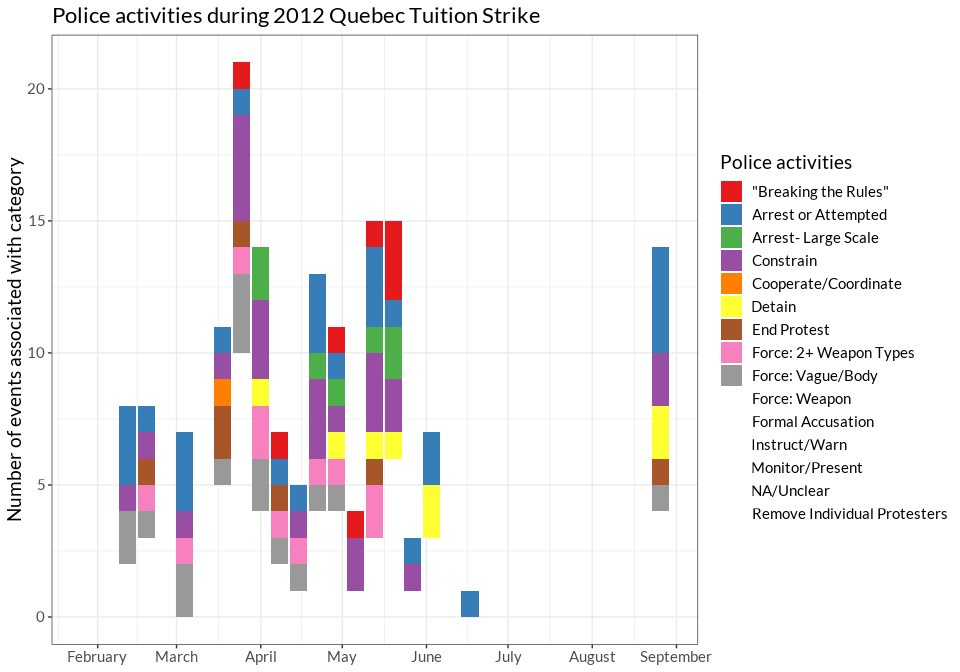
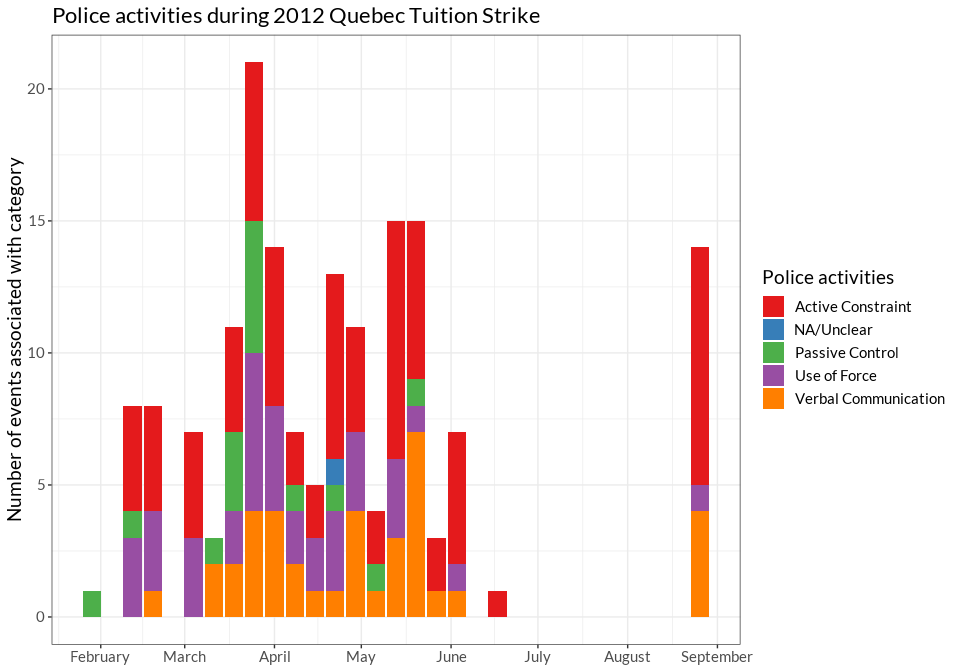
police chart updates

diff --git a/docs/exploratory_plots.md b/docs/exploratory_plots.md
@@ -370,7 +370,7 @@ across all events but with 16% prevalence across police-involved events.
 This makes sense given our knowledge that the Quebec tuition strike
 protests were heavily policed.
 
-| value                                                                 | Percent of events with given issue |
+| Issue                                                                 | Percent of events with given issue |
 |:----------------------------------------------------------------------|-----------------------------------:|
 | University governance, admin, policies, programs, curriculum          |                              28.65 |
 | Tuition, fees, financial aid                                          |                              16.97 |
@@ -431,7 +431,7 @@ protests were heavily policed.
 | Traditional marriage/family                                           |                               0.22 |
 | Men’s rights                                                          |                               0.11 |
 
-![](exploratory_plots_files/figure-gfm/police_involvement_by_issue-1.png)<!-- -->
+![](exploratory_plots_files/figure-gfm/police_involvement_by_issue-1.png)<!-- -->![](exploratory_plots_files/figure-gfm/police_involvement_by_issue-2.png)<!-- -->
 
 # Percentages of all protest with given preset
 
@@ -797,12 +797,12 @@ activities, and type.
 
 Brainstorming a breakdown for activity recategorization:
 
-- Constrain: Arrest or Attempted, Arrest- Large Scale, Constrain,
-  Detain,  
+- Active Constraint: Arrest or Attempted, Arrest- Large Scale,
+  Constrain, Detain,  
   Remove Individual Protestors
-- Passive: Cooperate/Coordinate, Monitor/Present
-- Verbal: Instruct/Warn, “Breaking the Rules”
-- Force (all force mentions)
+- Passive Control: Cooperate/Coordinate, Monitor/Present
+- Verbal Communication: Instruct/Warn, “Breaking the Rules”
+- Use of Force (all force mentions)
 - NA/Unclear
 
 ## Trump-related protests
@@ -852,17 +852,16 @@ nonracial issues than racial issues for November 2016.
 | 2014-12-01                      |           39 |
 | 2014-11-25                      |           38 |
 
-    ## # A tibble: 6 × 2
-    ##   `Top dates for immigration-related protests`     n
-    ##   <date>                                       <int>
-    ## 1 2016-11-16                                      22
-    ## 2 2017-05-01                                      16
-    ## 3 2017-02-01                                      14
-    ## 4 2017-02-09                                      14
-    ## 5 2017-01-31                                      13
-    ## 6 2017-01-29                                      12
+| Top dates for immigration-related protests |   n |
+|:-------------------------------------------|----:|
+| 2016-11-16                                 |  22 |
+| 2017-05-01                                 |  16 |
+| 2017-02-01                                 |  14 |
+| 2017-02-09                                 |  14 |
+| 2017-01-31                                 |  13 |
+| 2017-01-29                                 |  12 |
 
-| Issue counts for November 9th, 2016                                   |   n |
+| Top ten issues for November 9th, 2016                                 |   n |
 |:----------------------------------------------------------------------|----:|
 | Trump and/or his administration (Against)                             |  61 |
 | Immigration (For) (racial)                                            |  10 |
@@ -874,21 +873,8 @@ nonracial issues than racial issues for November 2016.
 | Hate speech                                                           |   3 |
 | LGB+/Sexual orientation (For)                                         |   3 |
 | Sexual assault/violence                                               |   3 |
-| White supremacy (Against) (racial)                                    |   3 |
-| Campus climate (racial)                                               |   2 |
-| Hate speech (racial)                                                  |   2 |
-| LGB+/Sexual orientation                                               |   2 |
-| Transgender issues                                                    |   2 |
-| Accessibility                                                         |   1 |
-| Far Right/Alt Right (Against)                                         |   1 |
-| Hate crimes/Anti-minority violence                                    |   1 |
-| Immigration (Against) (racial)                                        |   1 |
-| Pro-Palestine/BDS                                                     |   1 |
-| Transgender issues (For)                                              |   1 |
-| University governance, admin, policies, programs, curriculum          |   1 |
-| \_Other Issue                                                         |   1 |
 
-| Issue counts for November 16th, 2016                                  |   n |
+| Top ten issues for November 16th, 2016                                |   n |
 |:----------------------------------------------------------------------|----:|
 | Trump and/or his administration (Against)                             |  30 |
 | Immigration (For) (racial)                                            |  22 |
@@ -900,25 +886,8 @@ nonracial issues than racial issues for November 2016.
 | Hate crimes/Anti-minority violence (racial)                           |   5 |
 | \_Other Issue (racial)                                                |   4 |
 | Environmental                                                         |   3 |
-| Feminism/women’s issues                                               |   3 |
-| Hate crimes/Anti-minority violence                                    |   3 |
-| Indigenous issues (racial)                                            |   3 |
-| White supremacy (Against) (racial)                                    |   3 |
-| LGB+/Sexual orientation                                               |   2 |
-| Transgender issues (For)                                              |   2 |
-| \_Other Issue                                                         |   2 |
-| Abortion (Against)/Pro-life                                           |   1 |
-| Abortion access                                                       |   1 |
-| Accessibility                                                         |   1 |
-| Far Right/Alt Right (Against)                                         |   1 |
-| Hate speech                                                           |   1 |
-| LGB+/Sexual orientation (For)                                         |   1 |
-| Labor and work                                                        |   1 |
-| Transgender issues                                                    |   1 |
-| Trump and/or his administration (For)                                 |   1 |
-| Tuition, fees, financial aid                                          |   1 |
 
-| Issue counts for November 17th, 2016                                  |   n |
+| Top ten issues for November 17th, 2016                                |   n |
 |:----------------------------------------------------------------------|----:|
 | Trump and/or his administration (Against)                             |   4 |
 | University governance, admin, policies, programs, curriculum          |   4 |
@@ -930,10 +899,6 @@ nonracial issues than racial issues for November 2016.
 | Tuition, fees, financial aid                                          |   2 |
 | University governance, admin, policies, programs, curriculum (racial) |   2 |
 | Hate crimes/Anti-minority violence                                    |   1 |
-| Hate speech                                                           |   1 |
-| Racist/racialized symbols (racial)                                    |   1 |
-| White supremacy (Against) (racial)                                    |   1 |
-| \_Other Issue (racial)                                                |   1 |
 
 # Investigating reporting measures
 
